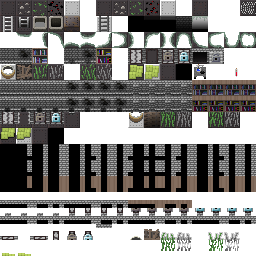
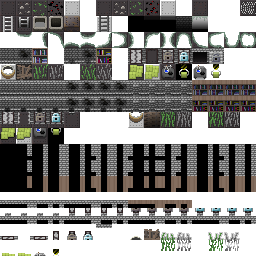
연구실의 신규 지형 추가

diff --git a/core/src/main/java/com/shatteredpixel/shatteredpixeldungeon/levels/LabsLevel.java b/core/src/main/java/com/shatteredpixel/shatteredpixeldungeon/levels/LabsLevel.java
@@ -24,8 +24,9 @@ package com.shatteredpixel.shatteredpixeldungeon.levels;
 import com.shatteredpixel.shatteredpixeldungeon.Assets;
 import com.shatteredpixel.shatteredpixeldungeon.Dungeon;
 import com.shatteredpixel.shatteredpixeldungeon.effects.Ripple;
+import com.shatteredpixel.shatteredpixeldungeon.effects.particles.WindParticle;
 import com.shatteredpixel.shatteredpixeldungeon.levels.painters.Painter;
-import com.shatteredpixel.shatteredpixeldungeon.levels.painters.SewerPainter;
+import com.shatteredpixel.shatteredpixeldungeon.levels.painters.PrisonPainter;
 import com.shatteredpixel.shatteredpixeldungeon.levels.rooms.Room;
 import com.shatteredpixel.shatteredpixeldungeon.levels.traps.BlazingTrap;
 import com.shatteredpixel.shatteredpixeldungeon.levels.traps.ConfusionTrap;
@@ -102,7 +103,7 @@ public class LabsLevel extends RegularLevel {
 	
 	@Override
 	protected Painter painter() {
-		return new SewerPainter()
+		return new PrisonPainter()
 				.setWater(feeling == Feeling.WATER ? 0.85f : 0.30f, 5)
 				.setGrass(feeling == Feeling.GRASS ? 0.80f : 0.20f, 4)
 				.setTraps(nTraps(), trapClasses(), trapChances());
@@ -162,6 +163,10 @@ public class LabsLevel extends RegularLevel {
 			if (level.map[i] == Terrain.WALL_DECO) {
 				group.add( new Sink( i ) );
 			}
+			//alt deco is a chasm visual in the prison
+			if (level.map[i] == Terrain.REGION_DECO_ALT) {
+				group.add( new WindParticle.Wind( i ) );
+			}
 		}
 	}
 	
@@ -176,6 +181,10 @@ public class LabsLevel extends RegularLevel {
 				return Messages.get(LabsLevel.class, "statue_name");
 			case Terrain.EMPTY_SP:
 				return Messages.get(LabsLevel.class, "empty_sp_name");
+			case Terrain.REGION_DECO:
+				return Messages.get(LabsLevel.class, "region_deco_name");
+			case Terrain.REGION_DECO_ALT:
+				return Messages.get(LabsLevel.class, "region_deco_alt_name");
 			default:
 				return super.tileName( tile );
 		}
@@ -198,6 +207,10 @@ public class LabsLevel extends RegularLevel {
 				return Messages.get(LabsLevel.class, "bookshelf_desc");
 			case Terrain.STATUE:
 				return Messages.get(LabsLevel.class, "statue_desc");
+			case Terrain.REGION_DECO:
+				return Messages.get(LabsLevel.class, "region_deco_desc");
+			case Terrain.REGION_DECO_ALT:
+				return Messages.get(LabsLevel.class, "region_deco_alt_desc");
 			default:
 				return super.tileDesc( tile );
 		}

diff --git a/core/src/main/java/com/shatteredpixel/shatteredpixeldungeon/tiles/DungeonTileSheet.java b/core/src/main/java/com/shatteredpixel/shatteredpixeldungeon/tiles/DungeonTileSheet.java
@@ -129,7 +129,8 @@ public class DungeonTileSheet {
 			if (Dungeon.depth <= 5)     return CHASM_FLOOR_SP;
 			if (Dungeon.depth <= 10)    return CHASM;
 			if (Dungeon.depth <= 20)    return CHASM_FLOOR_SP;
-			else                        return CHASM_FLOOR;
+			if (Dungeon.depth <= 25)	return CHASM_FLOOR;
+			else                        return CHASM;
 		}
 		return chasmStitcheable.get(above, CHASM);
 	}
